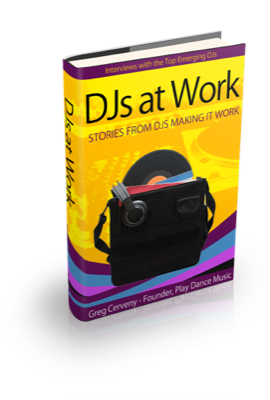
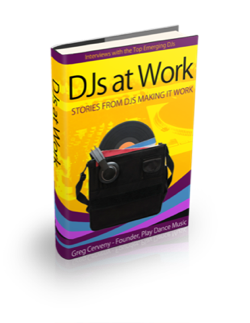
djs at work landing improvements

diff --git a/djs_at_work/index.html b/djs_at_work/index.html
@@ -53,31 +53,41 @@
       </div>
 
       <div class="jumbotron">
-        <img src="book_render.png" class="img-rounded pull-right hero"/>
-        
-        <h1>DJs at Work</h1>
-        <p>Interviews with top DJs</p>
-        <p><strong>BY GREG CERVENY</strong></p>
-        <p>How???</p>
-        <p>I pick out a dozen totally awesome and totally legit DJs
-        and send them half a dozen to questions over email.</p>
-        <p>What???</p>
-        <p>See for yourself, sign up to be the first to get a copy.</p>
-        <div class="cta">
-          <form action="http://twitter.us2.list-manage.com/subscribe/post?u=50350daf6a7910bab56d83f95&amp;id=3d16a01435" method="post" id="mc-embedded-subscribe-form" name="mc-embedded-subscribe-form" target="_blank" novalidate="">
-            
-            <div class="form-group">
-              <input type="email" name="EMAIL" class="form-control" id="exampleInputEmail1" placeholder="Enter email">
+        <div class="row">
+          <div class="col-sm-7">
+            <h1>DJs at Work</h1>
+            <p>The stories behind the decks.</p>
+            <p><strong>BY GREG CERVENY</strong></p>
+            <p>Success seldom comes over night.  DJs at Work is a collection of interviews with
+            headlining DJs who have made a career in dance music.
+            <p>In this provacative narrative of the underground DJ, readers
+            explore how emerging DJs got their start, where they struggled, and what they did
+            to make it work.</p>
+            <div class="cta">
+              <h4>Get the Interviews First</h4>
+              <form action="http://twitter.us2.list-manage.com/subscribe/post?u=50350daf6a7910bab56d83f95&amp;id=3d16a01435" method="post" id="mc-embedded-subscribe-form" name="mc-embedded-subscribe-form" target="_blank" novalidate="">
+                
+                <div class="form-group">
+                  <input type="email" name="EMAIL" class="form-control" id="exampleInputEmail1" placeholder="Enter email">
+                </div>
+                <button type="submit" class="btn btn-lg btn-success">
+                  <span class="glyphicon glyphicon-envelope"></span>
+                  Get the Interviews First
+                </button>
+              </form>
             </div>
-            <button type="submit" class="btn btn-lg btn-success">
-              <span class="glyphicon glyphicon-envelope"></span>
-              Freakin' let me KNOW</button>
-          </form>
+          </div>
+
+          <div class="col-sm-5 text-center">
+            <img src="book_render.png"/><br/>
+            <img src="kindle.png"><br/>
+            <img src="ibooks.png"><br/>
+          </div>
         </div>
       </div>
 
       <p class="text-center text-muted">
-<strong>Personal Policy:</strong> 
+        <strong>Personal Policy:</strong> 
                 Being real is important to me.  That's why I'll never spam you or sell your e-mail address.
                 If you don't think I'm doing a good job supporting our community, 
                 email me
